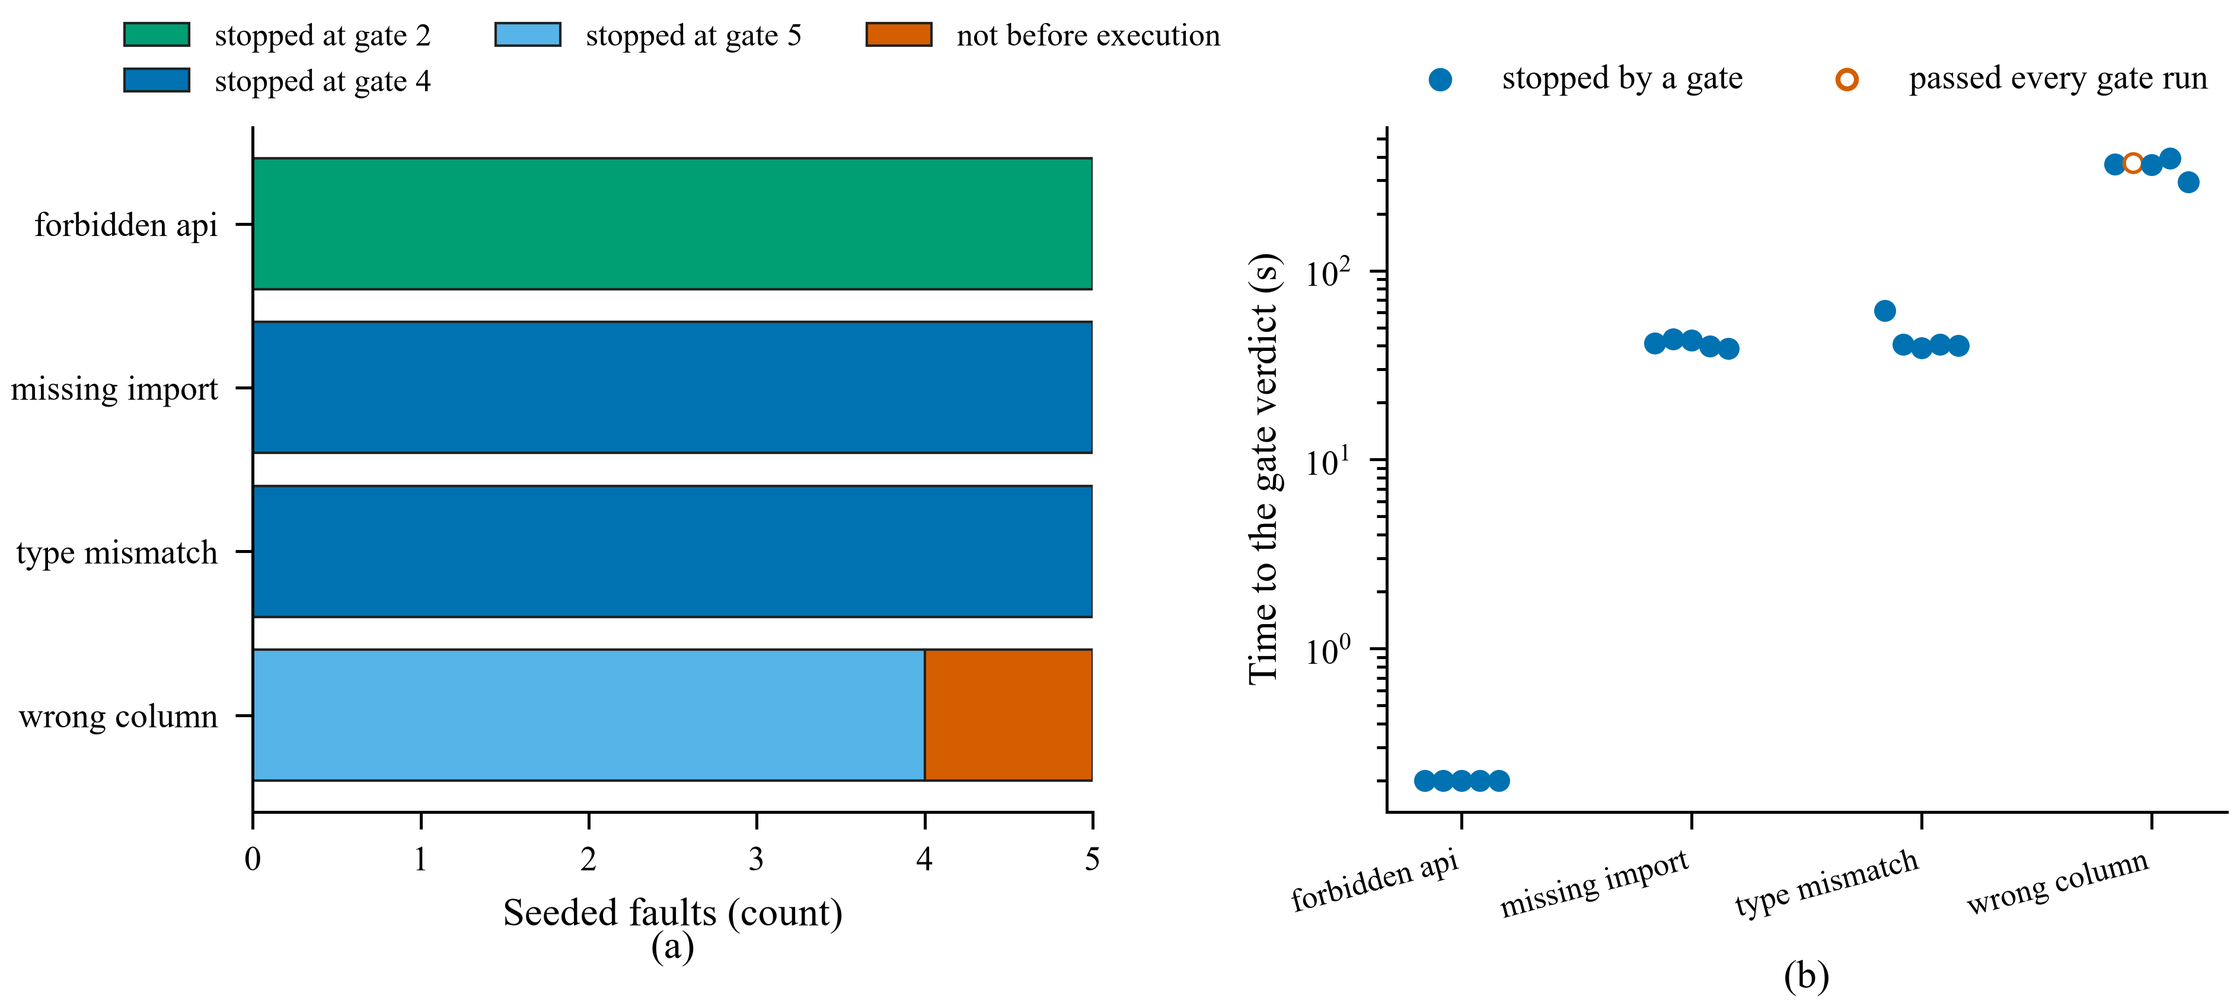
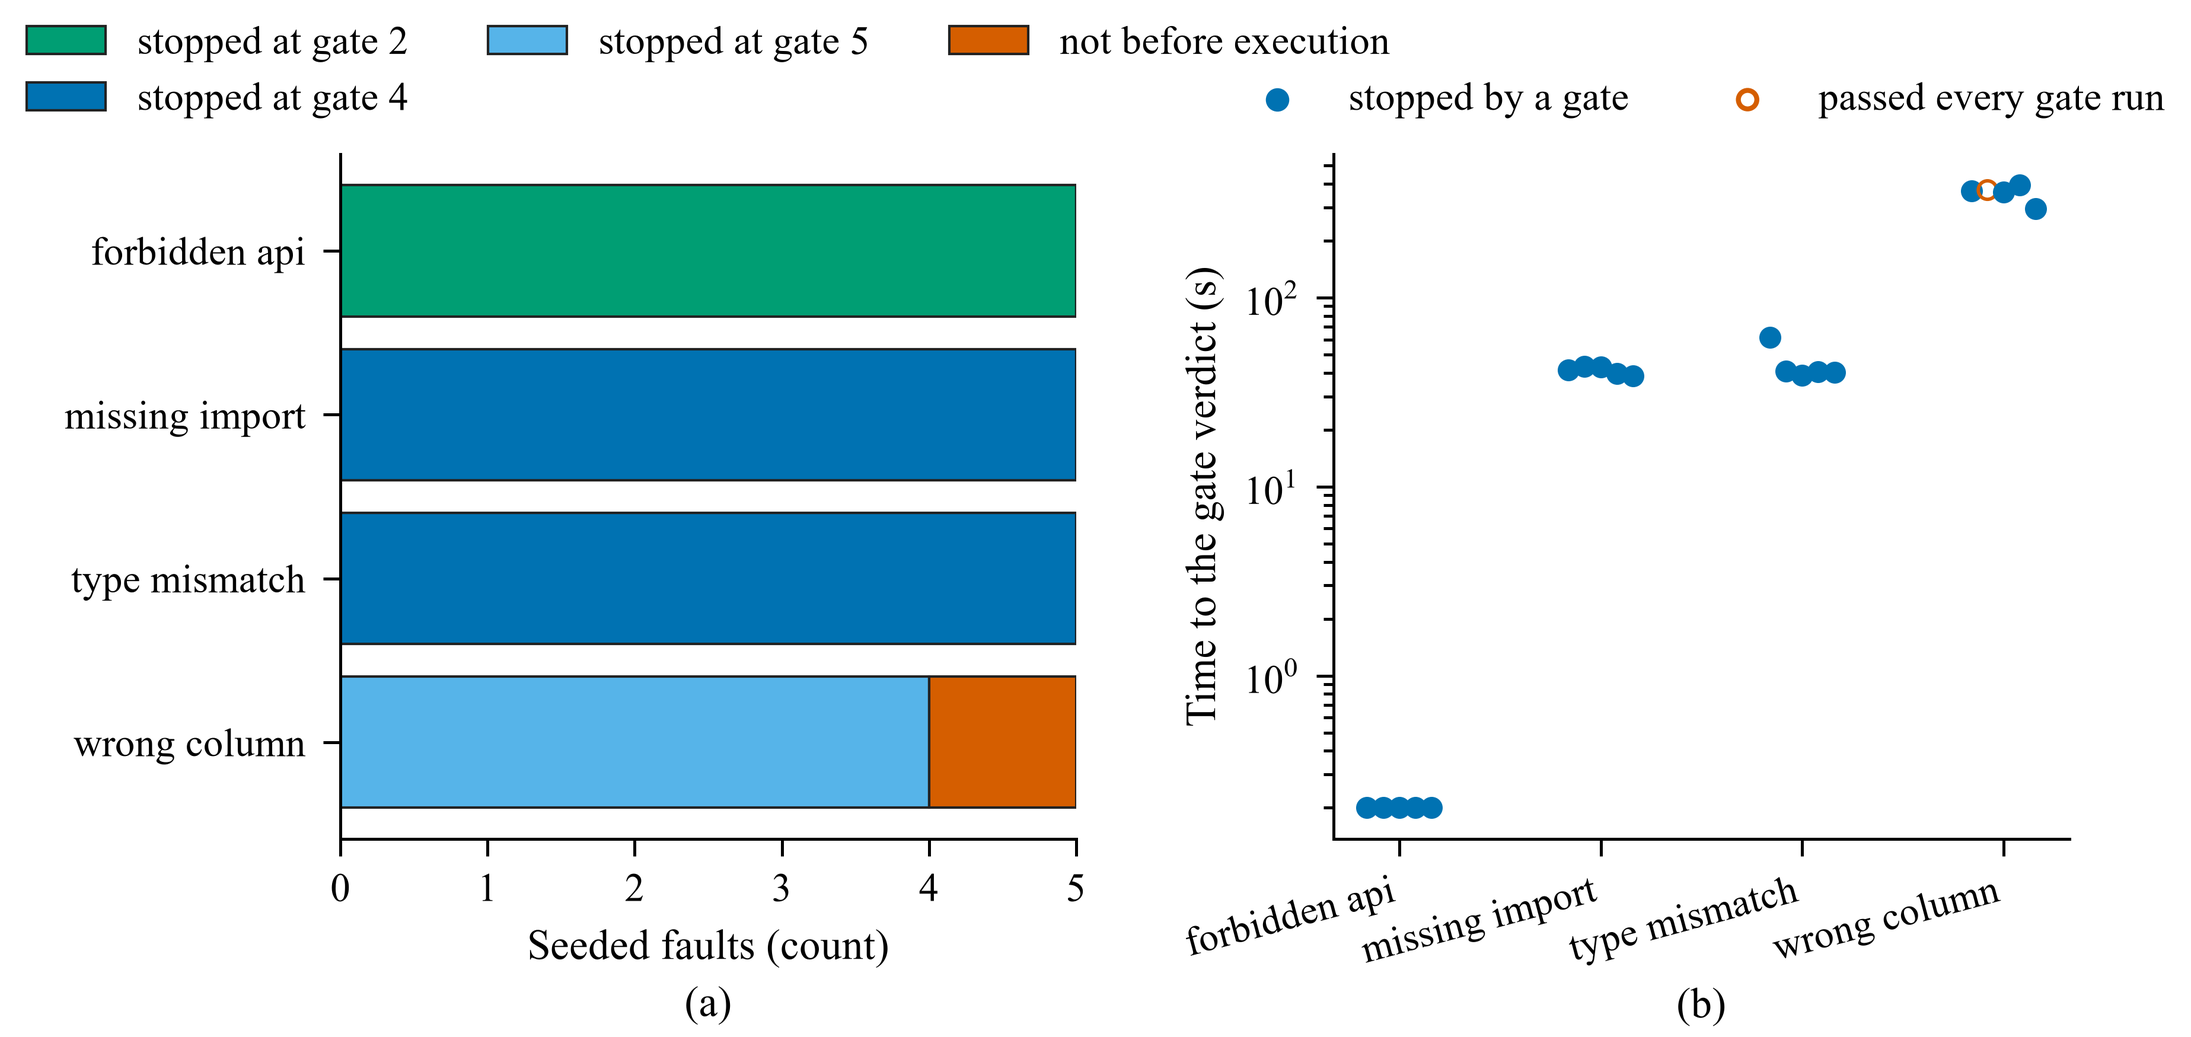
Chart text prints at 8 to 10 pt, as the template asks; abbreviations defined at first use
- charts drawn at the template's A4 text width (6.27 in), not the IEEE letter column, so their
  nominal sizes are the printed ones: 8 to 8.5 pt, measured 8.0 to 10.0 pt as placed
- panel letters placed under each panel's measured extent, clear of its axis title
- Fig. 28 on two rows (the segment comparison full width); panels in reading order, text
  updated; Fig. 25's long labels wrapped and one n/a per group; Fig. 21's scores set vertically
- PR-AUC, ROC-AUC, JVM, UDF and JAR defined where they first appear

diff --git a/docs/research/figures/build_charts.py b/docs/research/figures/build_charts.py
@@ -14,6 +14,7 @@ each figure drew on, so a figure can be traced to the measurement behind it.
 from __future__ import annotations
 
 import json
+import textwrap
 from pathlib import Path
 from typing import Any
 
@@ -28,7 +29,7 @@ EXPERIMENTS = ROOT / "experiments"
 ANALYSIS = ROOT / "docs" / "research" / "analysis"
 OUT = Path(__file__).resolve().parent / "png"
 DPI = 600
-WIDE, NARROW = 7.16, 3.5          # IEEE double- and single-column widths (inches)
+WIDE, NARROW = 6.27, 3.5          # the template's text width (A4 less 2.54 cm margins), and a column
 
 # Okabe-Ito: distinguishable in colour-blind vision and still separable in grey.
 COLOURS = {"B2": "#E69F00", "B3": "#56B4E9", "P": "#009E73", "ink": "#222222",
@@ -46,8 +47,10 @@ def style() -> None:
         if font.exists():
             font_manager.fontManager.addfont(str(font))
     plt.rcParams.update({
-        "font.family": "Times New Roman", "font.size": 8, "axes.titlesize": 8,
-        "axes.labelsize": 8, "xtick.labelsize": 7, "ytick.labelsize": 7, "legend.fontsize": 7,
+        # The template asks for 8 to 10 pt as printed; each chart is drawn at about the width
+        # it is placed at, so these are the printed sizes.
+        "font.family": "Times New Roman", "font.size": 8.5, "axes.titlesize": 8.5,
+        "axes.labelsize": 8.5, "xtick.labelsize": 8, "ytick.labelsize": 8, "legend.fontsize": 8,
         "axes.linewidth": 0.6, "xtick.major.width": 0.6, "ytick.major.width": 0.6,
         "lines.linewidth": 1.2, "savefig.dpi": DPI, "figure.dpi": 100,
         "axes.spines.top": False, "axes.spines.right": False, "hatch.linewidth": 0.5,
@@ -77,23 +80,43 @@ def analysis(name: str, figure: str) -> dict[str, Any]:
     return json.loads(path.read_text(encoding="utf-8"))
 
 
-def label(ax: Any, letter: str, offset: float = -30) -> None:
-    """(a), (b) ... centred below the panel, as the template's multipart-figure rule asks."""
-    ax.annotate(f"({letter})", xy=(0.5, 0), xycoords="axes fraction", xytext=(0, offset),
-                textcoords="offset points", ha="center", va="top", fontsize=8)
+def label(ax: Any, letter: str) -> None:
+    """(a), (b) ... centred below the panel, as the template's multipart-figure rule asks.
+
+    Placed by `save`, under everything the panel draws - tick labels, axis title, legend - so it
+    lands clear of them whatever their size; a fixed offset sat on the axis title at 8 pt.
+    """
+    ax.figure.panel_labels = [*getattr(ax.figure, "panel_labels", []), (ax, letter)]
 
 
-def bar_values(ax: Any, bars: Any, fmt: str = "{:.2f}", pad: float = 1.5) -> None:
+def place_panel_labels(fig: Any) -> None:
+    labels = getattr(fig, "panel_labels", [])
+    if not labels:
+        return
+    fig.canvas.draw()
+    renderer = fig.canvas.get_renderer()
+    to_figure = fig.transFigure.inverted()
+    gap = 3 * fig.dpi / 72   # three points below the panel's lowest text
+    for ax, letter in labels:
+        bottom = ax.get_tightbbox(renderer).y0 - gap
+        box = ax.get_position()
+        fig.text((box.x0 + box.x1) / 2, to_figure.transform((0, bottom))[1], f"({letter})",
+                 ha="center", va="top", fontsize=8.5)
+
+
+def bar_values(ax: Any, bars: Any, fmt: str = "{:.2f}", pad: float = 1.5,
+               rotation: float = 0) -> None:
     for bar in bars:
         height = bar.get_height()
         ax.annotate(fmt.format(height), xy=(bar.get_x() + bar.get_width() / 2, height),
                     xytext=(0, pad), textcoords="offset points", ha="center", va="bottom",
-                    fontsize=6.5)
+                    fontsize=8, rotation=rotation)
 
 
 def save(fig: Any, name: str) -> None:
     OUT.mkdir(parents=True, exist_ok=True)
     path = OUT / f"{name}.png"
+    place_panel_labels(fig)
     fig.savefig(path, dpi=DPI, bbox_inches="tight", pad_inches=0.03, facecolor="white")
     plt.close(fig)
     print(f"  {path.relative_to(ROOT)}")
@@ -114,7 +137,7 @@ def fig21() -> None:
                   hatch=[HATCH[k] for _, k, _ in present], edgecolor=COLOURS["ink"], linewidth=0.5)
     bar_values(ax, bars, "{:.0f}")
     ax.set_ylabel("End-to-end wall clock (s)")
-    label(ax, "a", -22)
+    label(ax, "a")
 
     ax = axes[1]
     metrics = [("test_pr_auc", "PR-AUC"), ("test_roc_auc", "ROC-AUC")]
@@ -124,12 +147,13 @@ def fig21() -> None:
         vals = [t[c].get(key) or 0 for c, _, _ in present]
         bars = ax.bar(xs, vals, width=width, label=name, edgecolor=COLOURS["ink"], linewidth=0.5,
                       color=COLOURS["blue"] if i == 0 else COLOURS["muted"])
-        bar_values(ax, bars, "{:.3f}")
+        bar_values(ax, bars, "{:.3f}", rotation=90)   # side by side they ran together
     ax.set_xticks(range(len(present)), [n for *_, n in present])
-    ax.set_ylim(0, 1.05)
+    ax.set_ylim(0, 1.3)
+    ax.set_yticks([0, 0.2, 0.4, 0.6, 0.8, 1.0])   # a score stops at 1; the rest is room for labels
     ax.set_ylabel("Score on the sealed test cutoff")
     ax.legend(frameon=False, loc="upper left", ncols=2)
-    label(ax, "b", -22)
+    label(ax, "b")
     save(fig, "Fig 21 Performance Benchmark Results")
 
 
@@ -167,7 +191,7 @@ def fig22() -> None:
     ax.set_xlabel("Customers in the synthetic dataset")
     ax.set_ylabel("Wall clock (s)")
     ax.legend(frameon=False)
-    label(ax, "a", -28)
+    label(ax, "a")
 
     ax = axes[0][1]
     series = (("b2_peak_rss_mb", "B2 Python process", COLOURS["B2"], "o"),
@@ -186,15 +210,15 @@ def fig22() -> None:
                 linewidth=0.9, label="B3 JVM + Python driver (sum of peaks)")
     ax.axhline(3000, color=COLOURS["warn"], linestyle="--", linewidth=0.8)
     ax.annotate("container limit (3 000 MiB)", xy=(0.02, 3000), xycoords=("axes fraction", "data"),
-                xytext=(0, 2), textcoords="offset points", fontsize=6.5, color=COLOURS["warn"])
+                xytext=(0, 2), textcoords="offset points", fontsize=8, color=COLOURS["warn"])
     ax.set_xscale("log")
     ax.set_xlabel("Customers in the synthetic dataset")
     ax.set_ylabel("Peak resident memory (MiB)")
     # Room above the container limit for the legend, clear of every series.
     highest = max([3000.0, *(y for line in ax.get_lines() for y in line.get_ydata())])
-    ax.set_ylim(top=highest * 1.32)
+    ax.set_ylim(top=highest * 1.8)
     ax.legend(frameon=False, loc="upper left")
-    label(ax, "b", -28)
+    label(ax, "b")
 
     arms = sorted((int(k.split("_")[1]), v) for k, v in e3.items() if k.startswith("local_"))
     cores = [c for c, _ in arms]
@@ -207,8 +231,9 @@ def fig22() -> None:
     ax.set_xticks(cores, [f"local[{c}]" for c in cores])
     ax.set_xlabel("Spark parallelism (cores in one JVM)")
     ax.set_ylabel("Speed-up over one core (x)")
+    ax.set_ylim(0.8, 5.4)   # room above the linear line for the legend
     ax.legend(frameon=False, loc="upper left")
-    label(ax, "c", -28)
+    label(ax, "c")
 
     ax = axes[1][1]
     width = 0.36
@@ -226,7 +251,7 @@ def fig22() -> None:
     ax.set_xlabel("Spark parallelism (cores in one JVM)")
     ax.set_ylabel("Time (s)")
     ax.legend(frameon=False, loc="upper left")
-    label(ax, "d", -28)
+    label(ax, "d")
     save(fig, "Fig 22 Scalability Analysis")
 
 
@@ -274,9 +299,9 @@ def fig23() -> None:
         left = [a + b for a, b in zip(left, widths, strict=True)]
     ax.set_xlabel("Seeded faults (count)")
     ax.legend(frameon=False, loc="lower center", bbox_to_anchor=(0.5, 1.0), ncols=3,
-              fontsize=6.5)
+              fontsize=8)
     ax.invert_yaxis()
-    label(ax, "a", -24)
+    label(ax, "a")
 
     # (b) What each gate costs: seconds from submission to the verdict on each seeded fault. A
     # fault no gate caught is drawn hollow at the time it took to pass all of them.
@@ -299,10 +324,10 @@ def fig23() -> None:
     ax.scatter([], [], s=14, facecolors="none", edgecolors=COLOURS["warn"],
                label="passed every gate run")
     ax.set_yscale("log")
-    ax.set_xticks(range(len(names)), names, rotation=15, ha="right", fontsize=6.5)
+    ax.set_xticks(range(len(names)), names, rotation=15, ha="right", fontsize=8)
     ax.set_ylabel("Time to the gate verdict (s)")
     ax.legend(frameon=False, loc="lower center", bbox_to_anchor=(0.5, 1.0), ncols=2)
-    label(ax, "b", -30)
+    label(ax, "b")
     save(fig, "Fig 23 Agent Efficiency Comparison")
 
 
@@ -338,14 +363,14 @@ def fig24() -> None:
             else:
                 scores[name].append(x / max(known.values()))
     angles = [2 * math.pi * i / len(axes_def) for i in range(len(axes_def))]
-    fig = plt.figure(figsize=(NARROW, 3.1))
+    fig = plt.figure(figsize=(7.4, 6.9))
     ax = fig.add_subplot(projection="polar")
     for (_, key, name) in present:
         vals = scores[name] + scores[name][:1]
         ax.plot(angles + angles[:1], vals, color=COLOURS[key], linewidth=1.1, label=name)
         ax.fill(angles + angles[:1], vals, color=COLOURS[key], alpha=0.12)
-    ax.set_xticks(angles, [a for a, *_ in axes_def], fontsize=6.5)
-    ax.set_yticks([0.25, 0.5, 0.75, 1.0], ["0.25", "0.5", "0.75", "1"], fontsize=6)
+    ax.set_xticks(angles, [a for a, *_ in axes_def], fontsize=8)
+    ax.set_yticks([0.25, 0.5, 0.75, 1.0], ["0.25", "0.5", "0.75", "1"], fontsize=8)
     ax.set_ylim(0, 1.05)
     ax.spines["polar"].set_linewidth(0.5)
     ax.legend(frameon=False, loc="upper center", bbox_to_anchor=(0.5, -0.08), ncols=3)
@@ -401,26 +426,27 @@ def fig25() -> None:
     rows.append(("governance bypass attempts refused (EXP-10)",
                  sum(1 for v in attempts.values() if v.get("_ok")), len(attempts)))
 
-    fig, axes = plt.subplots(1, 2, figsize=(WIDE, 2.8),
-                             gridspec_kw={"wspace": 0.25, "width_ratios": [1.15, 1]})
+    fig, axes = plt.subplots(1, 2, figsize=(WIDE, 3.4),
+                             gridspec_kw={"wspace": 0.3, "width_ratios": [1.15, 1]})
     ax = axes[0]
-    names = [r[0] for r in rows]
+    names = [textwrap.fill(r[0], 26) for r in rows]
     shares = [r[1] / r[2] if r[2] else 0 for r in rows]
     bars = ax.barh(names, shares, color=COLOURS["P"], edgecolor=COLOURS["ink"], linewidth=0.5)
     for bar, (_, k, n) in zip(bars, rows, strict=True):
         ax.annotate(f"{k} of {n}", xy=(bar.get_width(), bar.get_y() + bar.get_height() / 2),
-                    xytext=(2, 0), textcoords="offset points", va="center", fontsize=6.5)
+                    xytext=(2, 0), textcoords="offset points", va="center", fontsize=8)
     ax.set_xlim(0, 1.18)
     ax.set_xlabel("Share of injected cases (fraction)")
-    ax.tick_params(axis="y", labelsize=6.5)
+    ax.tick_params(axis="y", labelsize=8)
     ax.invert_yaxis()
-    label(ax, "a", -24)
+    label(ax, "a")
 
     ax = axes[1]
     trust = analysis("trust_scores.json", "Fig 25")
     runs = [r for r in trust.get("runs", []) if r.get("trust_score") is not None]
     keys = ("chain", "gates", "calib", "claims", "approval", "lineage")
     width = 0.8 / max(1, len(runs))
+    missing: dict[str, list[float]] = {}
     for i, run in enumerate(runs):
         comp = run["components"]
         xs = [j + (i - (len(runs) - 1) / 2) * width for j in range(len(keys))]
@@ -430,14 +456,17 @@ def fig25() -> None:
                label=f"{run['run']} (TS {run['trust_score']:.2f})")
         for x, k in zip(xs, keys, strict=True):
             if comp.get(k) is None:
-                ax.annotate("n/a", xy=(x, 0.02), ha="center", va="bottom", fontsize=5.5,
-                            rotation=90)
-    ax.set_xticks(range(len(keys)), keys, fontsize=6.5, rotation=25, ha="right")
+                missing.setdefault(k, []).append(x)
+    # One mark per group: a mark per missing bar overlapped its neighbours at 8 pt.
+    for xs_missing in missing.values():
+        ax.annotate("n/a", xy=(sum(xs_missing) / len(xs_missing), 0.02), ha="center",
+                    va="bottom", fontsize=8)
+    ax.set_xticks(range(len(keys)), keys, fontsize=8, rotation=25, ha="right")
     ax.set_ylim(0, 1.75)
     ax.set_yticks([0, 0.25, 0.5, 0.75, 1.0])
     ax.set_ylabel("Trust-score component (0 to 1)")
-    ax.legend(frameon=False, loc="upper center", fontsize=6)
-    label(ax, "b", -30)
+    ax.legend(frameon=False, loc="upper center", fontsize=8)
+    label(ax, "b")
     save(fig, "Fig 25 Reliability Assessment Model")
 
 
@@ -446,7 +475,11 @@ def fig25() -> None:
 
 def fig28() -> None:
     snap = analysis("business_snapshot.json", "Fig 28")
-    fig, axes = plt.subplots(1, 3, figsize=(WIDE, 2.4), gridspec_kw={"wspace": 0.45})
+    # Two rows: three panels side by side at the template's text width leave no room for 8 pt
+    # labels, so the segment comparison, the widest, takes the second row to itself.
+    fig = plt.figure(figsize=(WIDE, 5.0))
+    grid = fig.add_gridspec(2, 2, height_ratios=[1, 1], hspace=0.62, wspace=0.42)
+    axes = [fig.add_subplot(grid[0, 0]), fig.add_subplot(grid[1, :]), fig.add_subplot(grid[0, 1])]
 
     ax = axes[0]
     gain = snap["cumulative_gain"]
@@ -455,10 +488,10 @@ def fig28() -> None:
     ax.plot([k * 100 for k in ks], [c * 100 for c in captured], color=COLOURS["P"],
             label="model ranking")
     ax.plot([0, 100], [0, 100], linestyle=":", color=COLOURS["muted"], label="random order")
-    ax.set_xlabel("Customers contacted, highest risk first (%)")
+    ax.set_xlabel("Customers contacted,\nhighest risk first (%)")
     ax.set_ylabel("Churners reached (%)")
     ax.legend(frameon=False, loc="lower right")
-    label(ax, "a", -26)
+    label(ax, "a")
 
     ax = axes[1]
     review = snap.get("segment_threshold_review") or {}
@@ -478,11 +511,12 @@ def fig28() -> None:
                  label="each segment's own")
     bar_values(ax, one, "{:.2f}", 1)
     bar_values(ax, own, "{:.2f}", 1)
-    ax.set_xticks(list(xs), names, rotation=20, ha="right", fontsize=6.5)
+    ax.set_xticks(list(xs), names, fontsize=8)
     ax.set_ylim(0, 0.75)
-    ax.set_ylabel("Churners flagged, by tenure (recall)")
-    ax.legend(frameon=False, loc="upper left", fontsize=6.5)
-    label(ax, "b", -38)
+    ax.set_xlabel("Customer tenure")
+    ax.set_ylabel("Churners flagged (recall)")
+    ax.legend(frameon=False, loc="upper left", fontsize=8)
+    label(ax, "c")
 
     ax = axes[2]
     order = ["high", "medium", "low"]
@@ -493,7 +527,7 @@ def fig28() -> None:
     bar_values(ax, bars, "{:.0f}")
     ax.set_xlabel("Risk band")
     ax.set_ylabel("Customers scored (count)")
-    label(ax, "c", -26)
+    label(ax, "b")
     save(fig, "Fig 28 Business Impact Dashboard")
 
 

diff --git a/docs/research/09_spark_layer.md b/docs/research/09_spark_layer.md
@@ -14,7 +14,7 @@ stage's kind and measured size, and the first rule that matches decides; the dec
 recorded with the rule's identifier and the evidence it was judged on. Event-level
 transformations above a size threshold must stay in Spark (LR-01). Reusable pipeline stages -
 cleaning, features, labels - are compiled Scala jobs generated from templates (LR-02), and row-level
-logic on event data uses typed Scala rather than Python user-defined functions (LR-03).
+logic on event data uses typed Scala rather than Python user-defined functions (UDFs, LR-03).
 Read-only profiling runs from PySpark (LR-04), and training, tuning, evaluation, and explanation
 run in Python (LR-05). Inputs below 1 GB run the same Spark job in local mode rather than through a
 separate single-machine code path (LR-07), so that a small run exercises exactly the code a large
@@ -123,7 +123,7 @@ within ten percent is recorded as no difference rather than as an improvement.
 | Partitioned outputs | Feature table partitioned by snapshot date | Applied |
 | No Python UDFs on event data | LR-03; typed Scala instead | Enforced by routing |
 | No unbounded driver collection | LR-09; the static scan of gate 2 refuses it | Enforced |
-| Thin JARs | Jobs packaged without Spark; the core library passed with `--jars` | Applied |
+| Thin Java archives (JARs) | Jobs packaged without Spark; the core library passed with `--jars` | Applied |
 | Per-stage execution metrics | Shuffle bytes, spill and task skew for every stage (FR-036) | Applied on every job |
 | Configuration optimization loop | One setting, from the previous run's measurements (FR-037) | Applied; before-and-after recorded |
 | Caching decisions | Deciding what to persist between actions (FR-035) | Not implemented |

diff --git a/docs/research/19_business_impact.md b/docs/research/19_business_impact.md
@@ -17,14 +17,14 @@ it ranks riskiest reaches 29.8% of all churners, 2.98 times what a random 10% wo
 the top 15% of the validation population, 74.6% of the customers flagged did churn, and 45.7%
 of all churners were flagged. Because the model is calibrated - its expected calibration error
 is 0.019 and its Brier skill 0.32 - its probabilities can be read as probabilities, which is what
-lets the three risk bands of Fig. 28c mean something: 677 customers are high risk (a probability
+lets the three risk bands of Fig. 28b mean something: 677 customers are high risk (a probability
 of at least 0.66), 1 489 medium, and 4 648 low.
 
 ## 19.2 Where it would mislead, and how the platform says so
 
 The same figure shows the cost of a single threshold. Customers in their first six months have
 too little history to score well: at the global threshold only 16.4% of the churners among them
-were flagged, against 45.8% to 49.5% in the older tenure bands (Fig. 28b). A retention campaign
+were flagged, against 45.8% to 49.5% in the older tenure bands (Fig. 28c). A retention campaign
 run from this list would under-serve exactly the customers whose relationship is youngest. The
 platform did not hide this: the segment rule (AP-6) refused the model, the threshold review
 showed that tenure-specific thresholds would raise the newest customers' share to 46.0% at the

diff --git a/docs/research/08_analytics_ml.md b/docs/research/08_analytics_ml.md
@@ -34,7 +34,8 @@ test data: a feature that is almost entirely null or almost constant in training
 Leakage gets a second, behavioural line of defence, because a leaking feature can have an
 innocent name [@kaufman2012leakage] [@kapoor2023leakage]. A sentinel test injects events after
 the cutoff and requires that no feature changes, and an alarm flags any candidate whose
-validation ROC-AUC is implausibly high for the problem (0.98 by default). Section 15 reports an
+validation area under the receiver operating characteristic curve (ROC-AUC) is implausibly
+high for the problem (0.98 by default). Section 15 reports an
 experiment in which a feature named as harmlessly as a lifetime order count passes the name
 rules and is caught only by these behavioural checks.
 
@@ -76,7 +77,8 @@ the result with the deployed champion (AP-8, below) and decides among the three 
 A candidate may be used only if it satisfies eight rules, written in the pipeline's policy and
 judged by code, not by an agent:
 
-- **AP-1** validation PR-AUC at least the churn rate plus 0.10;
+- **AP-1** validation area under the precision-recall curve (PR-AUC) at least the churn rate
+  plus 0.10;
 - **AP-2** a more complex model must beat logistic regression's PR-AUC by at least 0.01, or the
   simpler model wins;
 - **AP-3** validation ROC-AUC at least 0.70;

diff --git a/docs/research/02_problem_statement.md b/docs/research/02_problem_statement.md
@@ -25,7 +25,7 @@ removing it.
 depends on data size, and the choice is usually made once, by hand, and never revisited. Tuning
 Spark itself is a research field of its own [@herodotou2020tuning].
 
-**Heterogeneous environments.** Python, the Java virtual machine, Scala, Spark, and their
+**Heterogeneous environments.** Python, the Java virtual machine (JVM), Scala, Spark, and their
 libraries each have versions, and a pipeline that works on one machine fails on another for
 reasons unrelated to its logic.
 
